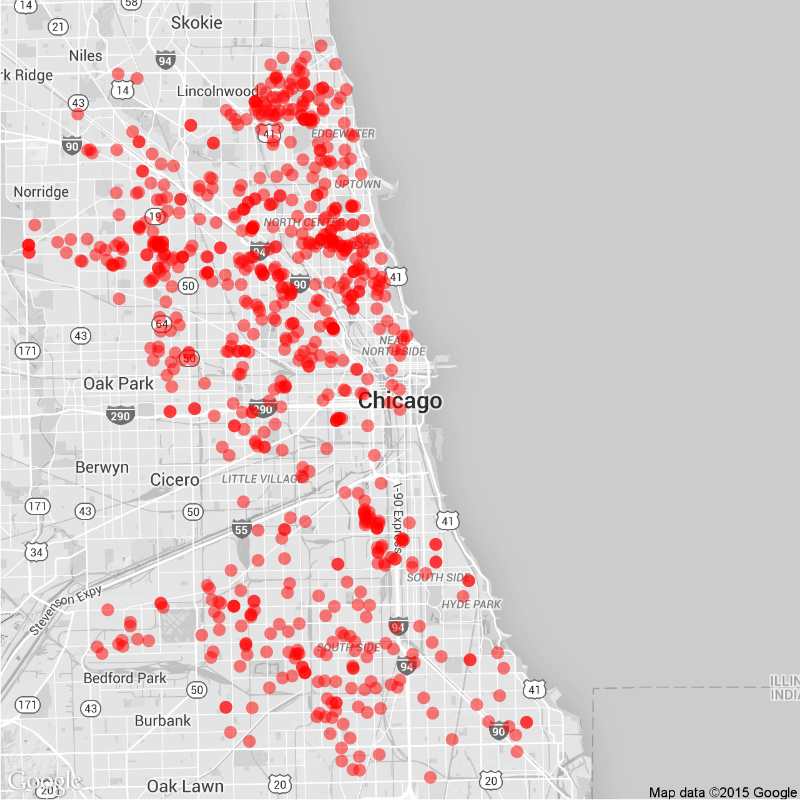
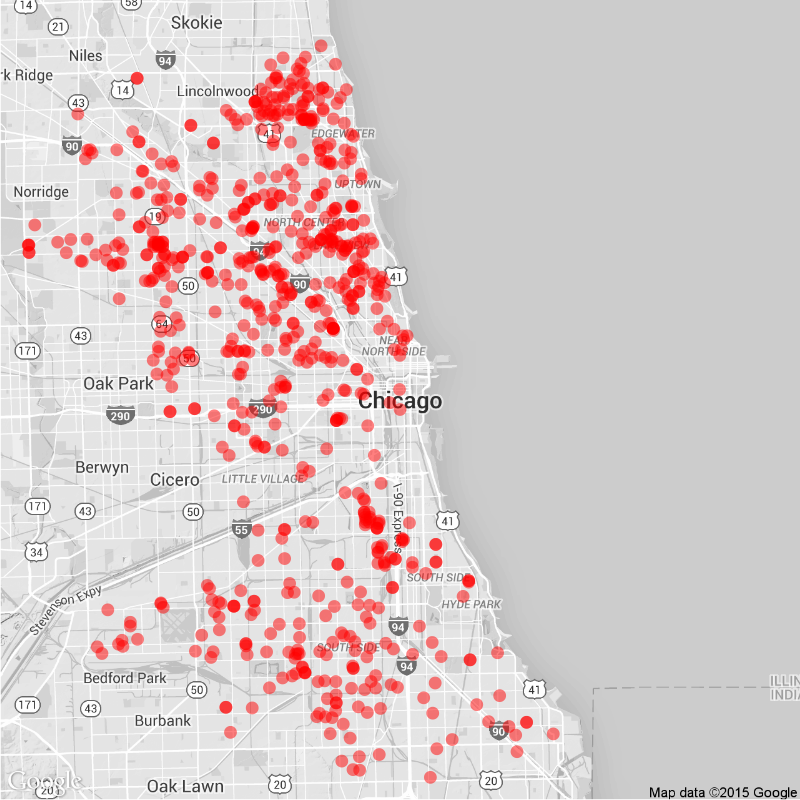
Daily Maps

diff --git a/daily.md b/daily.md
@@ -15,22 +15,22 @@ tags: Chicago NYC weekly daily rats
 
 ### Daily
 
-Yesterday (May 22), there were 101 calls to Chicago's 311 line about rats.
+Yesterday (May 23), there were 39 calls to Chicago's 311 line about rats.
 ![Chicago rat calls to 311 weekly map]({{ site.cityimages }}/daily/Chicago_Rat_Map_Daily.png)
 
 ### Weekly
-Between May 16 and May 22, there were 757 calls to Chicago's 311 line about rats. The average number of weekly calls for this time of year is 731.
+Between May 17 and May 23, there were 749 calls to Chicago's 311 line about rats. The average number of weekly calls for this time of year is 731.
 ![Chicago rat calls to 311 weekly map]({{ site.cityimages }}/daily/Chicago_Rat_Map_Weekly.png)
 ***
 # New York City <a id="nyc"><a>
 
 ### Daily
 
-Yesterday (May 22), there were 0 calls to New York City's 311 line about rats.
+Yesterday (May 23), there were 0 calls to New York City's 311 line about rats.
 ![NYC rat calls to 311 weekly map]({{ site.cityimages }}/daily/NYC_Rat_Map_Daily.png)
 
 ### Weekly
-Between May 16 and May 22, there were 0 calls to New York City's 311 line about rats. The average number of weekly calls for this time of year is 265.
+Between May 17 and May 23, there were 0 calls to New York City's 311 line about rats. The average number of weekly calls for this time of year is 265.
 ![NYC rat calls to 311 weekly map]({{ site.cityimages }}/daily/NYC_Rat_Map_Weekly.png)
 
 Each red dot represents one call about a rat seen in that location. The dots are transparent, so multiple calls from one location will be seen as a solid dot. The usual caveats apply: more calls do not necessarily mean that there are more rats in that location than other parts of the city. A cluster of dots could indicate that one resident is unusually vocal about rodents in his or her neighborhood. Also, more densely populated neighborhoods tend to make more calls to 311.
